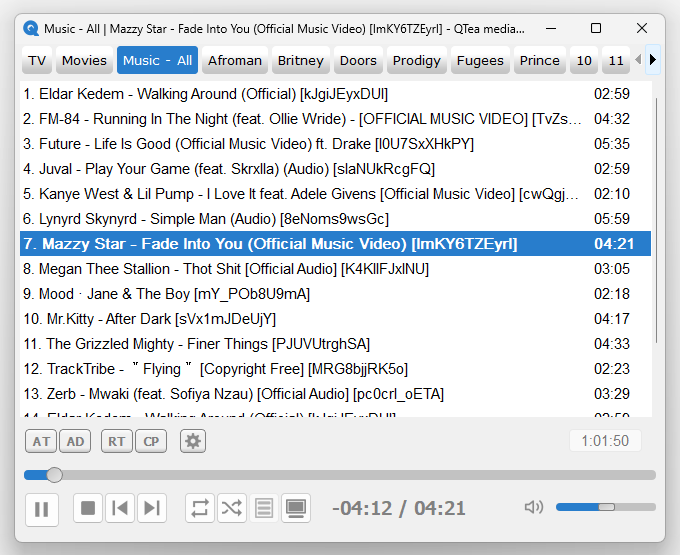
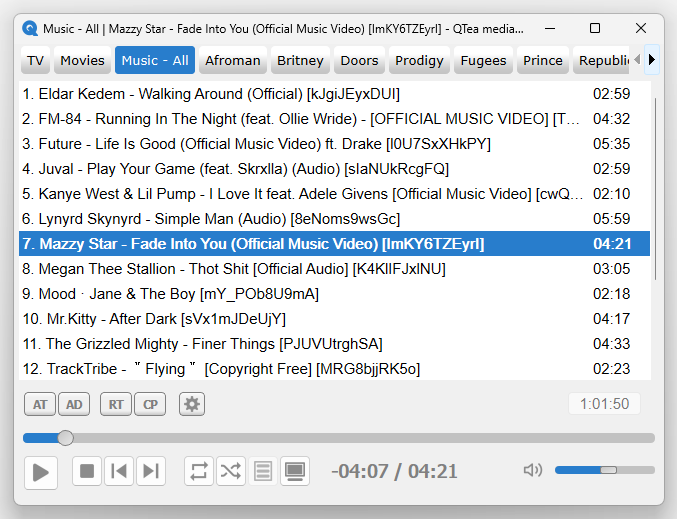
playlists/tabs switch hotkeys added, tabs visibility fix

Changed region(s): [[0.0, 0.0, 0.9926, 0.9865]]

diff --git a/src/tabs.py b/src/tabs.py
@@ -67,10 +67,24 @@ class MyTabs(QTabWidget):
                             "top: 0.3em;"
                             "}"
                         )
-        
         cv.active_tab = self.currentIndex()
         update_active_tab_vars_and_widgets()
         self.duration_sum_widg.setText(generate_duration_to_display(cv.active_pl_sum_duration))
+        self.hide_tabs_with_no_title()
+
+
+    ''' LEARNED '''
+    ''' 
+        The last tab added to the TABS widget should NOT be hidden
+        it will make the right tab selection arrow inactive/unusable to
+        select the un-hidden tabs beyond the visible tabs
+        workaround --> we leave the last tab always visible
+    '''
+    def hide_tabs_with_no_title(self):
+        last_tab_index = cv.playlist_amount - 1
+        for index in cv.tabs_without_title_to_hide_index_list:
+            if index != last_tab_index: 
+                self.setTabVisible(index, 0)
 
 
     def active_tab_changed(self):
@@ -80,7 +94,7 @@ class MyTabs(QTabWidget):
             save_json(settings, PATH_JSON_SETTINGS)
             update_active_tab_vars_and_widgets()    # set the current lists(name, duration)
             self.duration_sum_widg.setText(generate_duration_to_display(cv.active_pl_sum_duration))
-
+    
 
     ''' SYNC THE LIST'S(NAME, DURATION) SELECTION AND STYLE '''
     def name_list_to_duration_row_selection(self):
@@ -104,141 +118,142 @@ class MyTabs(QTabWidget):
                                     "color: black;"   
                                     "}"
                                 )
-    ''' LEARNED '''
-    ''' 
-        The last tab added to the TABS widget should not be hidden
-        it will make the right tab selection arrow inactive/unusable to
-        select the un-hidden tabs beyond the visible TABS window
-    '''
-    def tabs_creation(self):
- 
-        for pl in cv.paylist_widget_dic:
+    
 
+    def tabs_creation(self):
+
+        tab_index_counter = 0
+        
+        for pl in cv.paylist_widget_dic:
+             
             tab_title = settings[pl]['tab_title']
 
-            if tab_title:
-
-                def set_last_played_row_style():
-                    name_list_widget.setStyleSheet(
-                                            "QListWidget::item:selected"
-                                                "{"
-                                                "background: #CCE8FF;" 
-                                                "color: black;"   # font
-                                                "}"
-                                            )
-                    duration_list_widget.setStyleSheet(
-                                            "QListWidget::item:selected"
-                                                "{"
-                                                "background: #CCE8FF;" 
-                                                "color: black;"   # font
-                                                "}"
-                                            )
+            if not tab_title:
+                cv.tabs_without_title_to_hide_index_list.append(tab_index_counter)
+            tab_index_counter += 1
 
 
-                scroll_bar_name_ver = QScrollBar()
-                scroll_bar_name_hor = QScrollBar()
-                scroll_bar_duration_ver = QScrollBar()
-                scroll_bar_duration_hor = QScrollBar()
+            def set_last_played_row_style():
+                name_list_widget.setStyleSheet(
+                                        "QListWidget::item:selected"
+                                            "{"
+                                            "background: #CCE8FF;" 
+                                            "color: black;"   # font
+                                            "}"
+                                        )
+                duration_list_widget.setStyleSheet(
+                                        "QListWidget::item:selected"
+                                            "{"
+                                            "background: #CCE8FF;" 
+                                            "color: black;"   # font
+                                            "}"
+                                        )
 
-                scroll_bar_name_ver.valueChanged.connect(scroll_bar_duration_ver.setValue)
-                scroll_bar_duration_ver.valueChanged.connect(scroll_bar_name_ver.setValue)
 
-                scroll_bar_name_ver.setStyleSheet(
-                                "QScrollBar::vertical"
-                                    "{"
-                                    "width: 0px;"
-                                    "}"
-                                )
-                scroll_bar_name_hor.setStyleSheet(
-                                "QScrollBar::horizontal"
-                                    "{"
-                                    "height: 0px;"
-                                    "}"
-                                )
-                
-                scroll_bar_duration_ver.setStyleSheet(
-                                "QScrollBar::vertical"
-                                    "{"
-                                    "width: 10px;"
-                                    "}"               
-                                )
-                
-                scroll_bar_duration_hor.setStyleSheet(
-                                "QScrollBar::horizontal"
-                                    "{"
-                                    "height: 0px;"
-                                    "}"
-                                )
-                
+            scroll_bar_name_ver = QScrollBar()
+            scroll_bar_name_hor = QScrollBar()
+            scroll_bar_duration_ver = QScrollBar()
+            scroll_bar_duration_hor = QScrollBar()
 
-                
-                ''' LISTS CREATION '''
-                ''' Lists -> QHBoxLayout -> QFrame -> Add as a Tab '''
-                cv.paylist_widget_dic[pl]['name_list_widget'] = QListWidget()
-                name_list_widget = cv.paylist_widget_dic[pl]['name_list_widget']
-                name_list_widget.setVerticalScrollBar(scroll_bar_name_ver)
-                name_list_widget.setHorizontalScrollBar(scroll_bar_name_hor)
-                name_list_widget.itemDoubleClicked.connect(self.play_track)
-                # MOVE TRACK UP / DOWN
-                name_list_widget.setDragDropMode(QAbstractItemView.DragDropMode.InternalMove)
-                name_list_widget.model().rowsMoved.connect(lambda: self.drag_and_drop_list_item_action())
+            scroll_bar_name_ver.valueChanged.connect(scroll_bar_duration_ver.setValue)
+            scroll_bar_duration_ver.valueChanged.connect(scroll_bar_name_ver.setValue)
+
+            scroll_bar_name_ver.setStyleSheet(
+                            "QScrollBar::vertical"
+                                "{"
+                                "width: 0px;"
+                                "}"
+                            )
+            scroll_bar_name_hor.setStyleSheet(
+                            "QScrollBar::horizontal"
+                                "{"
+                                "height: 0px;"
+                                "}"
+                            )
+            
+            scroll_bar_duration_ver.setStyleSheet(
+                            "QScrollBar::vertical"
+                                "{"
+                                "width: 10px;"
+                                "}"               
+                            )
+            
+            scroll_bar_duration_hor.setStyleSheet(
+                            "QScrollBar::horizontal"
+                                "{"
+                                "height: 0px;"
+                                "}"
+                            )
             
 
-                cv.paylist_widget_dic[pl]['duration_list_widget'] = QListWidget()
-                duration_list_widget = cv.paylist_widget_dic[pl]['duration_list_widget']
-                duration_list_widget.setVerticalScrollBar(scroll_bar_duration_ver)
-                duration_list_widget.setHorizontalScrollBar(scroll_bar_duration_hor)
-                duration_list_widget.itemDoubleClicked.connect(self.play_track)
-                duration_list_widget.setFixedWidth(70)
-                
             
-                layout = QHBoxLayout()
-                layout.setSpacing(0)
-                layout.setContentsMargins(0, 0, 0, 0)
-                layout.addWidget(name_list_widget, 90)
-                layout.addWidget(duration_list_widget, 10)
+            ''' LISTS CREATION '''
+            ''' Lists -> QHBoxLayout -> QFrame -> Add as a Tab '''
+            cv.paylist_widget_dic[pl]['name_list_widget'] = QListWidget()
+            name_list_widget = cv.paylist_widget_dic[pl]['name_list_widget']
+            name_list_widget.setVerticalScrollBar(scroll_bar_name_ver)
+            name_list_widget.setHorizontalScrollBar(scroll_bar_name_hor)
+            name_list_widget.itemDoubleClicked.connect(self.play_track)
+            # MOVE TRACK UP / DOWN
+            name_list_widget.setDragDropMode(QAbstractItemView.DragDropMode.InternalMove)
+            name_list_widget.model().rowsMoved.connect(lambda: self.drag_and_drop_list_item_action())
+        
 
-                frame = QFrame()
-                frame.setStyleSheet(
-                                "QFrame"
-                                    "{"
-                                    "border: 0px;"
-                                    "}"
-                                )
-                frame.setLayout(layout)
+            cv.paylist_widget_dic[pl]['duration_list_widget'] = QListWidget()
+            duration_list_widget = cv.paylist_widget_dic[pl]['duration_list_widget']
+            duration_list_widget.setVerticalScrollBar(scroll_bar_duration_ver)
+            duration_list_widget.setHorizontalScrollBar(scroll_bar_duration_hor)
+            duration_list_widget.itemDoubleClicked.connect(self.play_track)
+            duration_list_widget.setFixedWidth(70)
+            
+        
+            layout = QHBoxLayout()
+            layout.setSpacing(0)
+            layout.setContentsMargins(0, 0, 0, 0)
+            layout.addWidget(name_list_widget, 90)
+            layout.addWidget(duration_list_widget, 10)
 
-                self.addTab(frame, tab_title)
+            frame = QFrame()
+            frame.setStyleSheet(
+                            "QFrame"
+                                "{"
+                                "border: 0px;"
+                                "}"
+                            )
+            frame.setLayout(layout)
+
+            self.addTab(frame, tab_title)
 
 
-                ''' PLAYLIST DB --> LIST WIDGET '''
-                cur.execute("SELECT * FROM {0}".format(pl))
-                playlist = cur.fetchall()
-                for item in playlist:
-                    rack_row_db, track_name, duration = generate_track_list_detail(item)
-                    add_new_list_item(track_name, name_list_widget)
-                    add_new_list_item(duration, duration_list_widget)
-                    cv.paylist_widget_dic[pl]['active_pl_sum_duration'] += int(item[1])
-                
-                ''' SET BACK / SELECT LAST USED ROWS '''
-                name_list_widget.setCurrentRow(settings[pl]['last_track_index'])
-                duration_list_widget.setCurrentRow(settings[pl]['last_track_index'])
-                
-                ''' 
-                    LAST PLAYED ROWS' STYLE
-                    the currently playing track's style is different --> ignored
-                '''
-                if cv.play_at_startup == 'False':
-                    set_last_played_row_style()
-                elif cv.play_at_startup == 'True' and pl != cv.paylist_list[cv.playing_tab]:
-                    set_last_played_row_style()
-                
+            ''' PLAYLIST DB --> LIST WIDGET '''
+            cur.execute("SELECT * FROM {0}".format(pl))
+            playlist = cur.fetchall()
+            for item in playlist:
+                rack_row_db, track_name, duration = generate_track_list_detail(item)
+                add_new_list_item(track_name, name_list_widget)
+                add_new_list_item(duration, duration_list_widget)
+                cv.paylist_widget_dic[pl]['active_pl_sum_duration'] += int(item[1])
+            
+            ''' SET BACK / SELECT LAST USED ROWS '''
+            name_list_widget.setCurrentRow(settings[pl]['last_track_index'])
+            duration_list_widget.setCurrentRow(settings[pl]['last_track_index'])
+            
+            ''' 
+                LAST PLAYED ROWS' STYLE
+                the currently playing track's style is different --> ignored
+            '''
+            if cv.play_at_startup == 'False':
+                set_last_played_row_style()
+            elif cv.play_at_startup == 'True' and pl != cv.paylist_list[cv.playing_tab]:
+                set_last_played_row_style()
+            
 
-                ''' 
-                    SYNC THE LIST'S(NAME, DURATION) SELECTION AND STYLE
-                    AFTER NEWLY SELECTED TRACK
-                '''
-                name_list_widget.currentRowChanged.connect(self.name_list_to_duration_row_selection)
-                duration_list_widget.currentRowChanged.connect(self.duration_list_to_name_row_selection)
+            ''' 
+                SYNC THE LIST'S(NAME, DURATION) SELECTION AND STYLE
+                AFTER NEWLY SELECTED TRACK
+            '''
+            name_list_widget.currentRowChanged.connect(self.name_list_to_duration_row_selection)
+            duration_list_widget.currentRowChanged.connect(self.duration_list_to_name_row_selection)
     
 
     def drag_and_drop_list_item_action(self):

diff --git a/main.py b/main.py
@@ -77,7 +77,9 @@ class MyWindow(QWidget):
         'paylist_add_track': lambda: button_add_track.button_add_track_clicked(),
         'paylist_add_directory': lambda: button_add_dir.button_add_dir_clicked(),
         'paylist_remove_track': lambda: button_remove_track.button_remove_track_clicked(),
-        'paylist_remove_all_track': lambda: button_remove_all_track.button_remove_all_track_clicked()
+        'paylist_remove_all_track': lambda: button_remove_all_track.button_remove_all_track_clicked(),
+        'paylist_select_prev_pl': self.paylist_select_prev_pl_action,
+        'paylist_select_next_pl': self.paylist_select_next_pl_action
         }
 
         for index, hotkey in enumerate(cv.hotkeys_list):
@@ -117,6 +119,31 @@ class MyWindow(QWidget):
             cv.window_size_normal = True
             self.resize(cv.window_width, cv.window_height)
 
+
+    def paylist_select_prev_pl_action(self):
+        current_index = tabs_playlist.currentIndex()
+        index_counter = -1
+        next_tab_index = current_index + index_counter
+
+        while next_tab_index in cv.tabs_without_title_to_hide_index_list and next_tab_index > 0:
+            index_counter -=1
+            next_tab_index = current_index + index_counter
+        
+        tabs_playlist.setCurrentIndex(next_tab_index)
+
+
+    def paylist_select_next_pl_action(self):
+        current_index = tabs_playlist.currentIndex()
+        last_tab_index = cv.playlist_amount-1
+        index_counter = 1
+        next_tab_index = current_index + index_counter
+
+        while next_tab_index in cv.tabs_without_title_to_hide_index_list and next_tab_index < last_tab_index:
+            index_counter +=1
+            next_tab_index = current_index + index_counter
+
+        tabs_playlist.setCurrentIndex(next_tab_index)
+     
 
 
 window = MyWindow()

diff --git a/src/cons_and_vars.py b/src/cons_and_vars.py
@@ -35,6 +35,7 @@ class Data:
     subtitle_tracks_amount = 0
     subtitle_track_played = 0
     window_size_normal = True   # for window_size_toggle
+    tabs_without_title_to_hide_index_list = []
     
     ''' 
     TO MANAGE THE PLAYLIST ACTIONS (PREV., NEXT, ..)
@@ -219,6 +220,8 @@ class Data:
     paylist_add_directory = settings['hotkey_settings']['paylist_add_directory']
     paylist_remove_track = settings['hotkey_settings']['paylist_remove_track']
     paylist_remove_all_track = settings['hotkey_settings']['paylist_remove_all_track']
+    paylist_select_prev_pl = settings['hotkey_settings']['paylist_select_prev_pl']
+    paylist_select_next_pl = settings['hotkey_settings']['paylist_select_next_pl']
 
 
     hotkey_settings_dic = {
@@ -336,6 +339,16 @@ class Data:
             'text': 'Paylist - Clear playlist',
             'value': paylist_remove_all_track,
             'line_edit_widget': ''
+        },
+        'paylist_select_prev_pl': {
+            'text': 'Paylist - Select next playlist',
+            'value': paylist_select_prev_pl,
+            'line_edit_widget': ''
+        },
+        'paylist_select_next_pl': {
+            'text': 'Paylist - Select previous playlist',
+            'value': paylist_select_next_pl,
+            'line_edit_widget': ''
         }
     }
 
@@ -345,7 +358,7 @@ class Data:
 
     ''' REGEX FOR SETTINGS WINDOW / HOTKEYS VALIDATION '''
     ''' More info in the docs / learning / regex_for_hotkey_validation.py '''
-    keys_list = ['Shift', 'Alt', 'Enter', 'Space', 'Ctrl', 'Del', 'Left', 'Right', 'Backspace', '[a-zA-Z0-9]', '[.+-]']
+    keys_list = ['Shift', 'Alt', 'Enter', 'Space', 'Ctrl', 'Del', 'Left', 'Right', 'Up', 'Down', 'Backspace', '[a-zA-Z0-9]', '[.+-]']
 
     # ONE KEY
     exp_1 = r''
